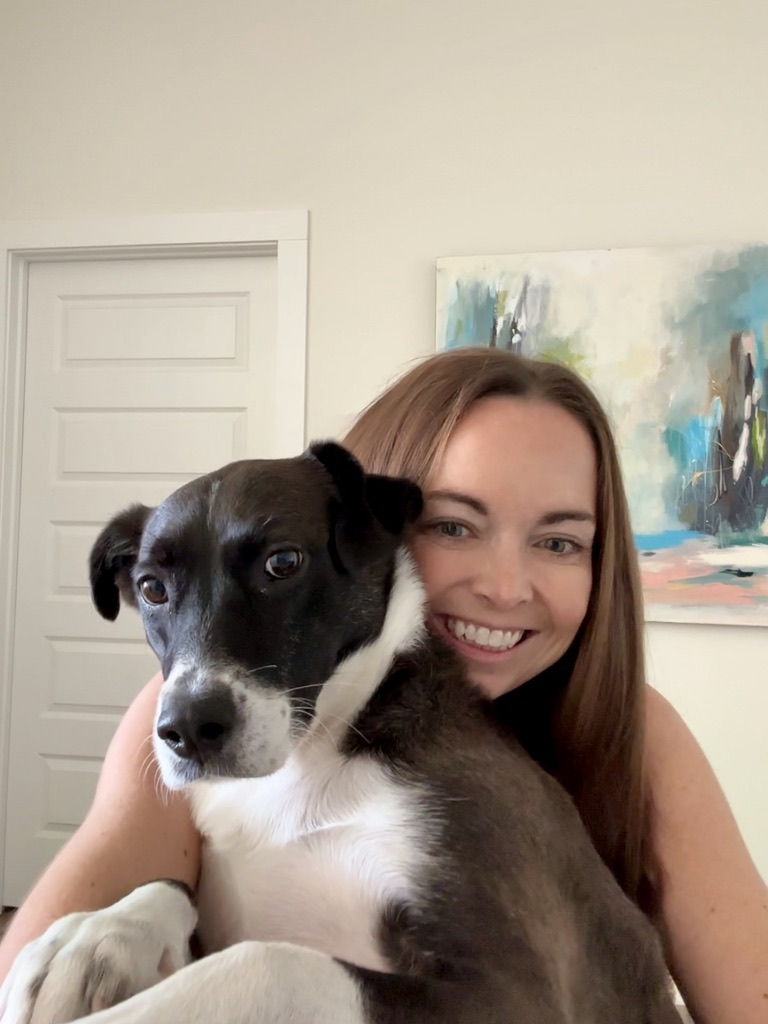
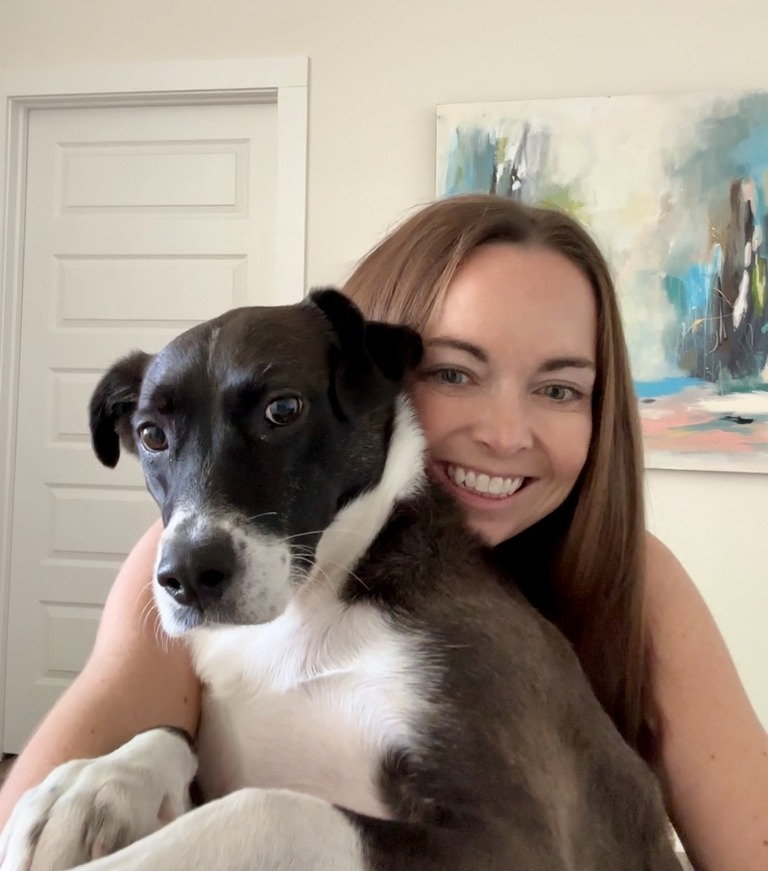
Founder section: bold key line, resize/reposition quote mark, crop photo, convert to square

diff --git a/index.html b/index.html
@@ -218,10 +218,11 @@
   html { scroll-behavior: smooth; }
   .founder-section { background: var(--warm-white); }
   .founder-layout { display: grid; grid-template-columns: 1.2fr 0.8fr; gap: 48px; align-items: stretch; }
-  .founder-photo { border-radius: 8px; overflow: hidden; height: calc(100% - 48px); min-height: 480px; max-height: 580px; background: var(--sand); border:1px solid rgba(0,0,0,0.06); }
-  .founder-copy { background: white; border:1px solid rgba(0,0,0,0.06); border-radius:8px; padding: 44px 42px; display: flex; flex-direction: column; justify-content: center; }
-  .founder-quote-mark { font-family: 'Cormorant Garamond', serif; font-size: 64px; line-height: 1; color: var(--rust); margin-bottom: 4px; }
+  .founder-photo { border-radius: 8px; overflow: hidden; aspect-ratio: 1 / 1; align-self: center; background: var(--sand); border:1px solid rgba(0,0,0,0.06); }
+  .founder-copy { background: white; border:1px solid rgba(0,0,0,0.06); border-radius:8px; padding: 44px 42px; display: flex; flex-direction: column; justify-content: center; position: relative; }
+  .founder-quote-mark { font-family: 'Cormorant Garamond', serif; font-size: 140px; line-height: 1; color: var(--rust); position: absolute; top: -46px; left: 42px; }
   .founder-copy p { font-size: 15px; color: var(--text-mid); line-height: 1.8; margin-bottom: 18px; }
+  .founder-copy p strong { font-weight: 500; color: var(--navy); }
   .founder-signature { margin-top: 28px; }
   .founder-name { font-family:'Cormorant Garamond', serif; font-style: italic; font-size: 24px; color: var(--navy); line-height:1.1; }
   .founder-title { font-size: 12px; color: var(--text-light); letter-spacing:0.1em; text-transform:uppercase; margin-top: 6px; }
@@ -235,8 +236,8 @@
   .faq-item.open .faq-icon { transform: rotate(45deg); }
   @media (max-width: 820px) {
     .founder-layout { grid-template-columns: 1fr; }
-    .founder-photo { height: 400px; }
     .founder-copy { padding: 32px 24px; }
+    .founder-quote-mark { font-size: 110px; top: -34px; left: 24px; }
     .nav-links { gap: 16px; flex-wrap: wrap; justify-content: flex-end; }
   }
 
@@ -295,8 +296,9 @@
 
     /* Founder */
     .founder-layout { grid-template-columns: 1fr; }
-    .founder-photo { height: 300px; order: -1; }
+    .founder-photo { order: -1; }
     .founder-copy { padding: 28px 20px; order: 1; }
+    .founder-quote-mark { font-size: 90px; top: -28px; left: 20px; }
     .founder-layout { display: flex; flex-direction: column; }
 
     /* Map */
@@ -571,7 +573,7 @@
     <div class="founder-layout">
       <div class="founder-copy">
         <div class="founder-quote-mark">&ldquo;</div>
-        <p>If you've ever left home wondering whether your dog is truly okay, I built this for you.</p>
+        <p>If you've ever left home wondering whether your dog is truly okay, <strong>I built this for you.</strong></p>
         <p>I've been caring for pets for most of my life. I started my first pet sitting business at 12 years old, worked as a dog walker in college, and have always believed great pet care is about more than feeding schedules and walks. It's about trust.</p>
         <p>By combining a lifelong love of animals with years of experience building businesses and leading teams, my goal is simple: to create the most trusted pet care experience in Wilmington, built on reliability, communication, and genuine relationships.</p>
         <div class="founder-signature">